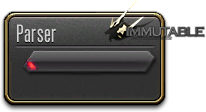
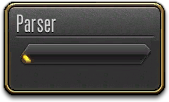
Update 'Immutable' to Gaven Bylander's latest version under its current name 'Bylanders'

diff --git a/Bylanders.html b/Bylanders.html
@@ -6,11 +6,11 @@
     <style>
 .container {
 	border-style: solid;
-	border-width: 76px 104px 21px 57px;
-	-moz-border-image: url(images/overlay.png) 76 104 21 57 repeat;
-	-webkit-border-image: url(images/overlay.png) 76 104 21 57 repeat;
-	-o-border-image: url(images/overlay.png) 76 104 21 57 repeat;
-	border-image: url(images/overlay.png) 76 104 21 57 fill repeat;
+border-width: 67px 37px 18px 62px;
+-moz-border-image: url(images/overlay.png) 67 37 18 62 repeat;
+-webkit-border-image: url(images/overlay.png) 67 37 18 62 repeat;
+-o-border-image: url(images/overlay.png) 67 37 18 62 repeat;
+border-image: url(images/overlay.png) 67 37 18 62 fill repeat;
 }
 html {
 	/*background-image: url(images/handle.png);*/
@@ -48,15 +48,15 @@ html {
 ol {
 	list-style-type: none;
 	margin: 0;
-	padding: 3px;
+	padding: 5px;
 }
  li .encountertitle {
-    font-size: 16px;
+    font-size: 18px;
     text-shadow: inset 0px 1px 1px #000;
     color: #000;
     position: absolute;
     left: 38%;
-    top: 57px;
+    top: 51px;
 	
 }
 li .raiddps {
@@ -65,11 +65,11 @@ li .raiddps {
     width: 70px;
     vertical-align: middle;
     text-align: middle;
-    font-size: 20px;
+    font-size: 23px;
     color: #FFF;
     text-shadow: 0 0 5px #fff, 0 0 10px #fff, 0 0 15px #fff, 0 0 20px #ff2d95, 0 0 30px #ff2d95, 0 0 40px #ff2d95, 0 0 50px #ff2d95, 0 0 75px #ff2d95;
     letter-spacing: 7px;
-    top: 25px;
+    top: 18px;
     left: 41%;
 }
 li {
@@ -113,10 +113,10 @@ li .duration {
     display: block;
     vertical-align: bottom;
     float: right;
-    font-size: 16px;
+    font-size: 18px;
     text-shadow: inset 0px 1px 1px #4d4d4d;
     color: #000;
-    top: 57px;
+    top: 51px;
     right: 75px;
 }
 li .tohit {
@@ -290,7 +290,7 @@ width: 0px;
                     }
 					row.find('.tohit').text('ACC' + ' ' + combatant.tohit + '%');
                     row.find('.dps').text(combatant.encdps);
-					row.find('.job-icon').html('<img src="images/default/' + JobOrName(combatant).toLowerCase() + '.png">');
+					row.find('.job-icon').html('<img src="images/default/' + JobOrName(combatant) + '.png" onerror="$(this).attr(\'src\', \'images/error.png\');">');
                     row.find('.name').text(combatant.name);
                     row.find('.number').text(combatant['DAMAGE-k'] + 'k ' + '('+combatant['damage%'] +')');
 					row.find('.crithit').text('CRIT' + ' ' + combatant['crithit%']);
@@ -348,6 +348,22 @@ width: 0px;
 					{
 					row.find('.bar').css('background', 'rgba(79,114,255,1.00)');
 					row.find('.bar').css('-webkit-box-shadow', '0px 0px 6px 1px rgba(79,114,255,0.20)');
+					row.find('.hps').text('HPS' + ' ' + combatant.enchps);				
+														}
+					else if(JobOrName(combatant) == 'Drk') //Darkknight//
+					{
+					row.find('.bar').css('background', 'rgba(150, 80, 30,1.00)');
+					row.find('.bar').css('-webkit-box-shadow', '0px 0px 6px 1px rgba(179,0,0,0.70)');
+														}
+					else if(JobOrName(combatant) == 'Mch') //Machinist//
+					{
+					row.find('.bar').css('background', 'rgba(89, 168, 240,1.00)');
+					row.find('.bar').css('-webkit-box-shadow', '0px 0px 6px 1px rgba(89, 168, 240,0.20)');			
+														}
+					else if(JobOrName(combatant) == 'Ast') //Astrologian//
+					{
+					row.find('.bar').css('background', 'rgba(218, 149, 94,1.00)');
+					row.find('.bar').css('-webkit-box-shadow', '0px 0px 6px 1px rgba(218, 149, 94,0.20)');
 					row.find('.hps').text('HPS' + ' ' + combatant.enchps);				
 														}
 					else if(JobOrName(combatant) == 'Mrd') //Marauder//
@@ -495,5 +511,4 @@ width: 0px;
     </div>
 </div>
 </body>
-<script src="testing.js"></script>
 </html>
